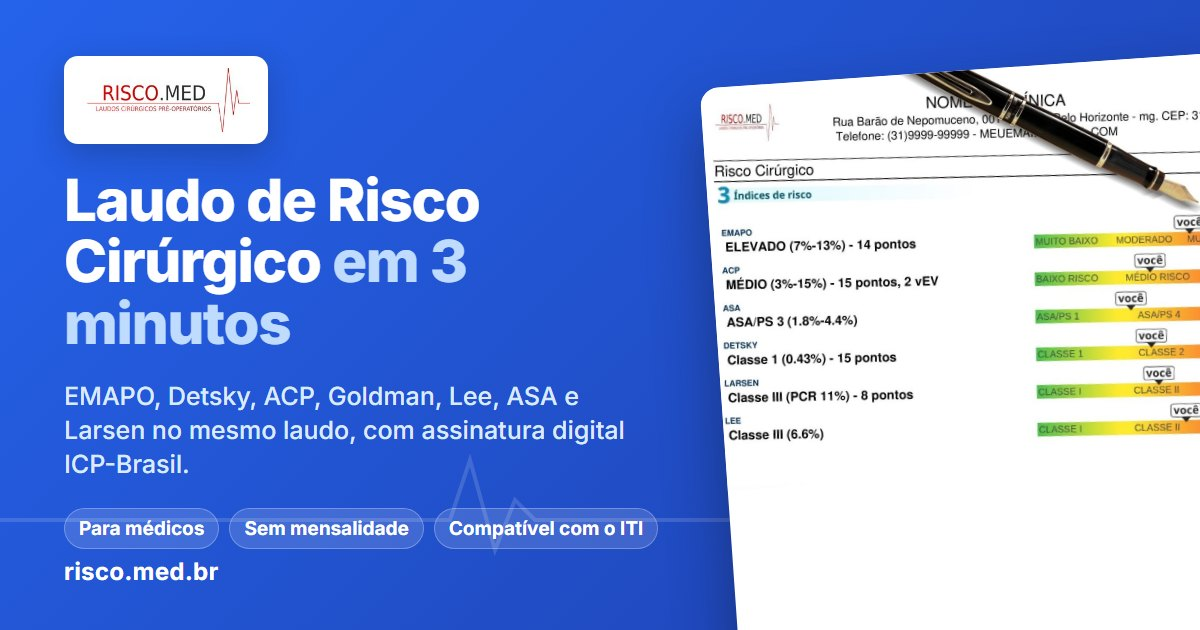
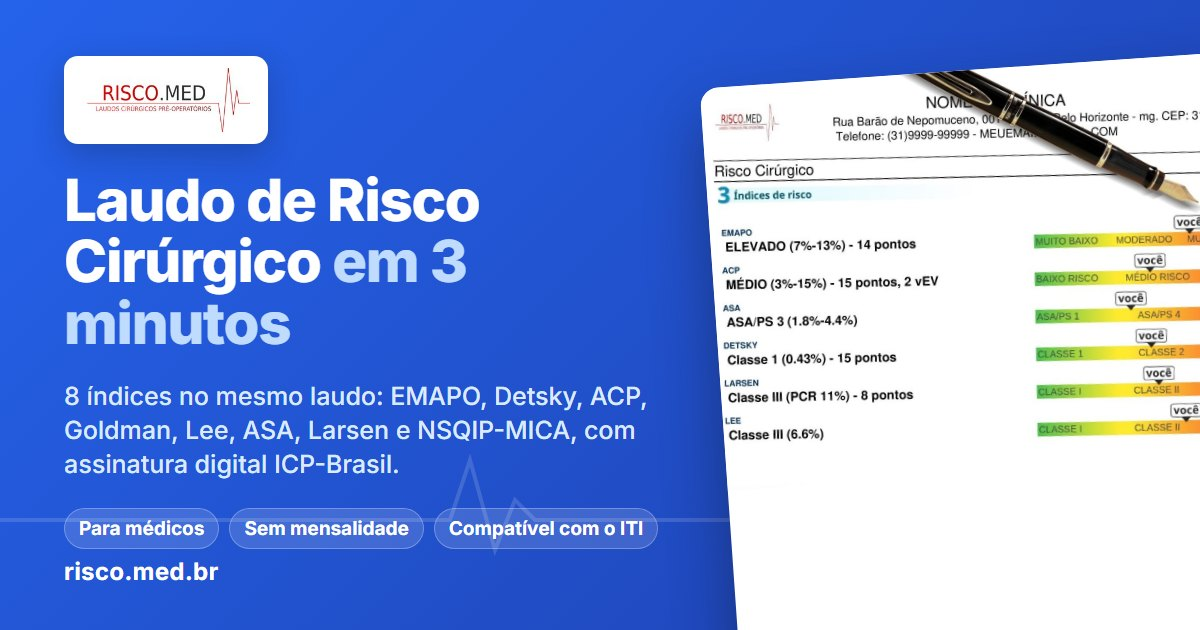
adicionando NSQIP MICA

Changed region(s): [[0.0308, 0.6032, 0.555, 0.754]]

diff --git a/assets/styles.css b/assets/styles.css
@@ -1918,3 +1918,18 @@ p {
         .whatsapp-overlay.active {
             display: block;
         }
+
+/* Selo "Novo" (ex.: NSQIP-MICA na lista de índices) */
+.pill-new {
+    display: inline-block;
+    font-size: 0.7rem;
+    font-weight: 700;
+    letter-spacing: 0.04em;
+    text-transform: uppercase;
+    color: #fff;
+    background: var(--primary);
+    border-radius: 999px;
+    padding: 2px 8px;
+    margin-left: 6px;
+    vertical-align: 2px;
+}
